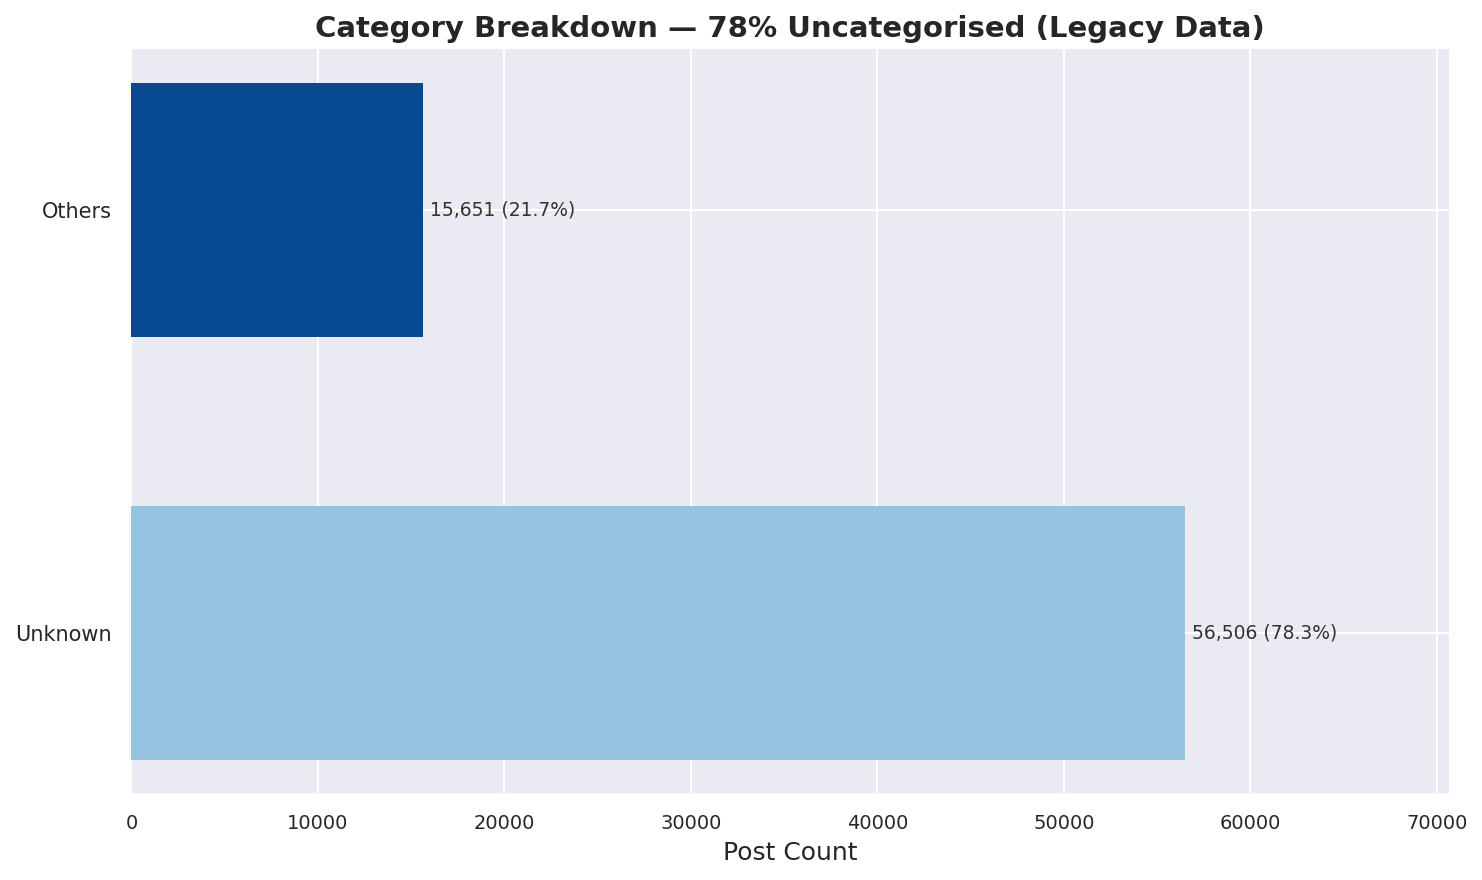
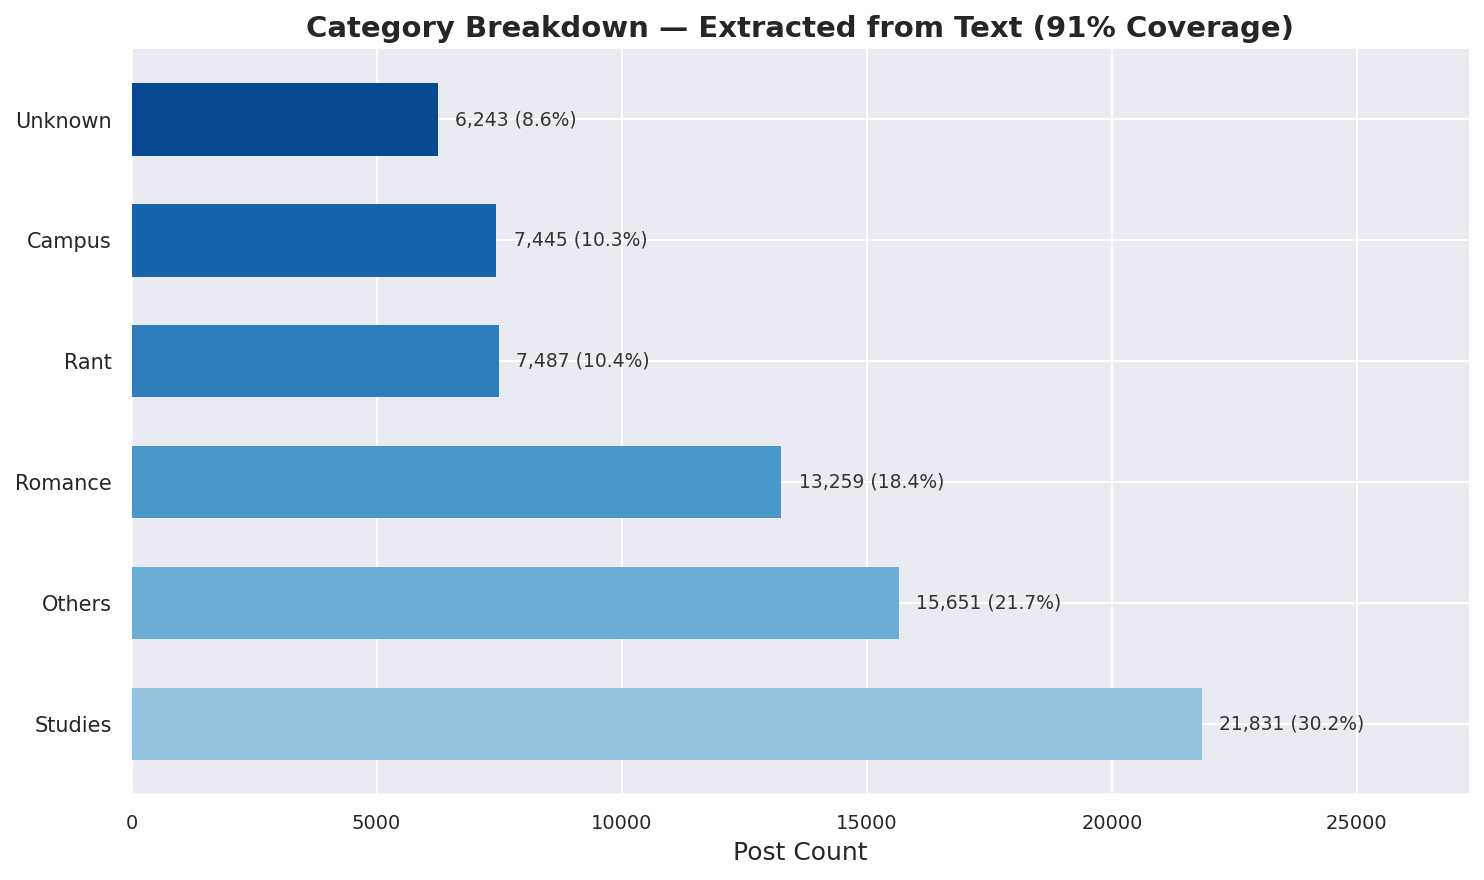
add sort by time, fix categories to extract from text (91% coverage)

diff --git a/frontend/app/stats/page.tsx b/frontend/app/stats/page.tsx
@@ -346,6 +346,18 @@ export default async function StatsPage() {
           </Section>
         )}
 
+        {/* ── 2.5 Category Breakdown (Text-Extracted) ── */}
+        {landscape?.categories && (
+          <Section title="Category Breakdown">
+            <p className="text-[0.88rem] leading-relaxed mb-3" style={{ color: 'var(--text-2)' }}>
+              Rather than relying on the database category field (78% null), we extract categories directly from
+              the confession title text — <strong>91% of posts have a hashtag prefix</strong> like
+              <code> #studies</code>, <code> #romance</code>, or <code> #campus</code>.
+            </p>
+            <img src="/blog/category_breakdown.png" alt="Category breakdown chart" className="w-full rounded-lg mb-3" style={{ background: 'var(--surface)' }} />
+          </Section>
+        )}
+
         {/* ── 3. ML-Derived Topic Regions ──────────────── */}
         {regions && (
           <Section title="Topic Regions (ML Clusters)">

diff --git a/frontend/app/page.tsx b/frontend/app/page.tsx
@@ -10,7 +10,7 @@ import { TimeTagline } from '@/components/TimeTagline';
 import { getPosts, getPostCount, getStats, getMonthlyCounts } from '@/lib/db';
 import type { Post, Stats, MonthlyCount, SortKey, RangeKey } from '@/lib/types';
 
-const VALID_SORTS: SortKey[] = ['reactions', 'replies', 'score'];
+const VALID_SORTS: SortKey[] = ['reactions', 'replies', 'score', 'time'];
 const VALID_RANGES: RangeKey[] = ['week', 'month', 'year', 'all'];
 const API_BASE = process.env.NEXT_PUBLIC_VPS_API || '';
 

diff --git a/frontend/components/FilterBar.tsx b/frontend/components/FilterBar.tsx
@@ -15,6 +15,7 @@ const SORTS: { key: SortKey; label: string }[] = [
   { key: 'reactions', label: '❤ Reactions' },
   { key: 'replies',   label: '💬 Replies' },
   { key: 'score',     label: '✨ Score' },
+  { key: 'time',      label: '🕐 Recent' },
 ];
 
 const RANGES: { key: RangeKey; label: string }[] = [

diff --git a/frontend/lib/types.ts b/frontend/lib/types.ts
@@ -48,5 +48,5 @@ export interface MonthlyCount {
   cnt: number;
 }
 
-export type SortKey = 'reactions' | 'replies' | 'score';
+export type SortKey = 'time' | 'reactions' | 'replies' | 'score';
 export type RangeKey = 'week' | 'month' | 'year' | 'all';

diff --git a/server.py b/server.py
@@ -10,7 +10,7 @@ from pathlib import Path
 
 import re
 
-from flask import Flask, render_template, request, abort, redirect
+from flask import Flask, render_template, request, abort, redirect, jsonify
 from markupsafe import Markup, escape
 
 from src.storage.db import DB_PATH, init_db
@@ -88,6 +88,7 @@ app.jinja_env.filters["tgmd"] = _tg_md_to_html
 
 RANGES = {"week": 7, "month": 30, "year": 365, "all": None}
 SORTS = {
+    "time": "date",
     "score": "(reactions_count * 3 + reply_count * 2 + forwards)",
     "reactions": "reactions_count",
     "replies": "reply_count",
@@ -281,6 +282,182 @@ def post(post_id):
     tg_url = f"https://t.me/NUSConfessIT/{post_id}"
     return render_template("post.html", active_page="", post=p, replies=replies,
                            total_in_group=total_in_group, tg_url=tg_url)
+
+
+# ── JSON API endpoints ────────────────────────────────────────────
+
+@app.after_request
+def _cors(response):
+    response.headers["Access-Control-Allow-Origin"] = "*"
+    response.headers["Access-Control-Allow-Headers"] = "*"
+    return response
+
+
+@app.route("/api/stats")
+def api_stats():
+    """Overall stats + landscape findings."""
+    conn = _connect()
+    raw = conn.execute("""
+        SELECT
+            COUNT(*) AS total,
+            MIN(date) AS first_date,
+            MAX(date) AS last_date,
+            SUM(views) AS total_views,
+            ROUND(AVG(reactions_count), 1) AS avg_reactions,
+            ROUND(AVG(word_count), 0) AS avg_words,
+            MAX(reactions_count) AS max_reactions
+        FROM messages WHERE is_reply=0
+    """).fetchone()
+    total_replies = conn.execute(
+        "SELECT COUNT(*) FROM messages WHERE is_reply=1"
+    ).fetchone()[0]
+    conn.close()
+
+    first_date = (raw[1] or "")[:10]
+    last_date = (raw[2] or "")[:10]
+    try:
+        days_active = (datetime.fromisoformat(last_date) - datetime.fromisoformat(first_date)).days
+    except:
+        days_active = 0
+
+    return jsonify({
+        "total_posts": raw[0],
+        "total_replies": total_replies,
+        "first_date": first_date,
+        "last_date": last_date,
+        "days_active": days_active,
+        "total_views": raw[3] or 0,
+        "avg_reactions": raw[4] or 0,
+        "avg_words": raw[5] or 0,
+        "max_reactions": raw[6] or 0,
+    })
+
+
+@app.route("/api/monthly")
+def api_monthly():
+    conn = _connect()
+    rows = conn.execute("""
+        SELECT strftime('%Y-%m', date) AS month, COUNT(*) AS cnt
+        FROM messages WHERE is_reply=0 AND date IS NOT NULL
+        GROUP BY month ORDER BY month DESC LIMIT 18
+    """).fetchall()
+    conn.close()
+    return jsonify([{"month": r[0], "count": r[1]} for r in rows][::-1])
+
+
+@app.route("/api/posts")
+def api_posts():
+    range_key = request.args.get("range", "month")
+    sort_key = request.args.get("sort", "reactions")
+    limit = min(int(request.args.get("n", 25)), 200)
+    q = request.args.get("q", "").strip()
+
+    rows = get_posts(
+        days=RANGES.get(range_key),
+        limit=limit,
+        sort=sort_key if sort_key in SORTS else "reactions",
+        q=q or None,
+    )
+    return jsonify([{
+        "id": p["id"],
+        "title": p.get("title") or "",
+        "excerpt": p["excerpt"],
+        "date": p.get("date", "")[:10],
+        "reactions": p.get("reactions_count", 0),
+        "replies": p.get("reply_count", 0),
+        "forwards": p.get("forwards", 0),
+        "score": p["score"],
+        "category": p.get("category", ""),
+    } for p in rows])
+
+
+@app.route("/api/post/<int:post_id>")
+def api_post(post_id):
+    p, replies, total = get_post_and_replies(post_id)
+    if not p:
+        return jsonify({"error": "not found"}), 404
+    return jsonify({
+        "post": {
+            "id": p["id"],
+            "title": p.get("title") or "",
+            "body": p.get("content") or p.get("text") or "",
+            "date": (p.get("date") or "")[:10],
+            "reactions": p.get("reactions_count", 0),
+            "replies": p.get("reply_count", 0),
+            "forwards": p.get("forwards", 0),
+            "score": p.get("score", 0),
+            "category": p.get("category", ""),
+        },
+        "replies": [{
+            "id": r["id"],
+            "body": r.get("content") or r.get("text") or "",
+            "date": (r.get("date") or "")[:10],
+        } for r in replies],
+        "total_replies_in_group": total,
+    })
+
+
+@app.route("/api/landscape")
+def api_landscape():
+    """Embedding landscape findings from ML analysis."""
+    from collections import Counter
+    import numpy as np
+    import re
+
+    conn = _connect()
+    rows = conn.execute(
+        "SELECT id, text, reactions_count, reply_count, forwards, category "
+        "FROM messages WHERE is_reply=0"
+    ).fetchall()
+    conn.close()
+
+    CAT_RE = re.compile(r'^\*{2}#(\w+)\*{2}')
+    def extract_cat(text):
+        m = CAT_RE.match(text or "")
+        if m:
+            return m.group(1).lower()
+        return "unknown"
+
+    scores = [r[2]*1 + r[3]*2 + r[4]*3 for r in rows]
+    arr = np.array(scores)
+    th = float(np.percentile(arr, 75))
+
+    # Categories extracted from text (91% coverage) vs DB field (21% coverage)
+    cat_counts = Counter(extract_cat(r[1]) for r in rows)
+
+    # Viral hotspots
+    top_posts = sorted(
+        [(r[0], r[2]*1 + r[3]*2 + r[4]*3, r[1] or "") for r in rows],
+        key=lambda x: -x[1]
+    )[:10]
+
+    return jsonify({
+        "total_posts": len(rows),
+        "viral_threshold": round(th, 1),
+        "viral_rate": round(float((arr >= th).mean()), 3),
+        "categories": dict(cat_counts.most_common()),
+        "score_distribution": {
+            "mean": round(float(arr.mean()), 1),
+            "median": round(float(np.median(arr)), 1),
+            "p75": round(float(th), 1),
+            "p90": round(float(np.percentile(arr, 90)), 1),
+            "max": int(arr.max()),
+        },
+        "top_posts": [{
+            "id": p[0], "score": p[1],
+            "excerpt": _excerpt(p[2], 150),
+        } for p in top_posts],
+        "cluster_taxonomy": {
+            "4_main_regions": {
+                "academics": {"size_pct": 32, "keywords": "mods, finals, major, course, lecture"},
+                "career_and_hot_takes": {"size_pct": 31, "keywords": "internship, work, students, linkedin, hustle"},
+                "dating_and_relationships": {"size_pct": 29, "keywords": "girl, guys, love, crush, friend"},
+                "lonely_and_admin": {"size_pct": 8, "keywords": "bored, chat, sleep, wanna, swap"},
+            },
+            "method": "UMAP (15k fit, 65k transform) + Mean Shift (bandwidth=2.14) + HDBSCAN validation",
+            "embedding_model": "openai/text-embedding-3-small (512d)",
+        },
+    })
 
 
 if __name__ == "__main__":
